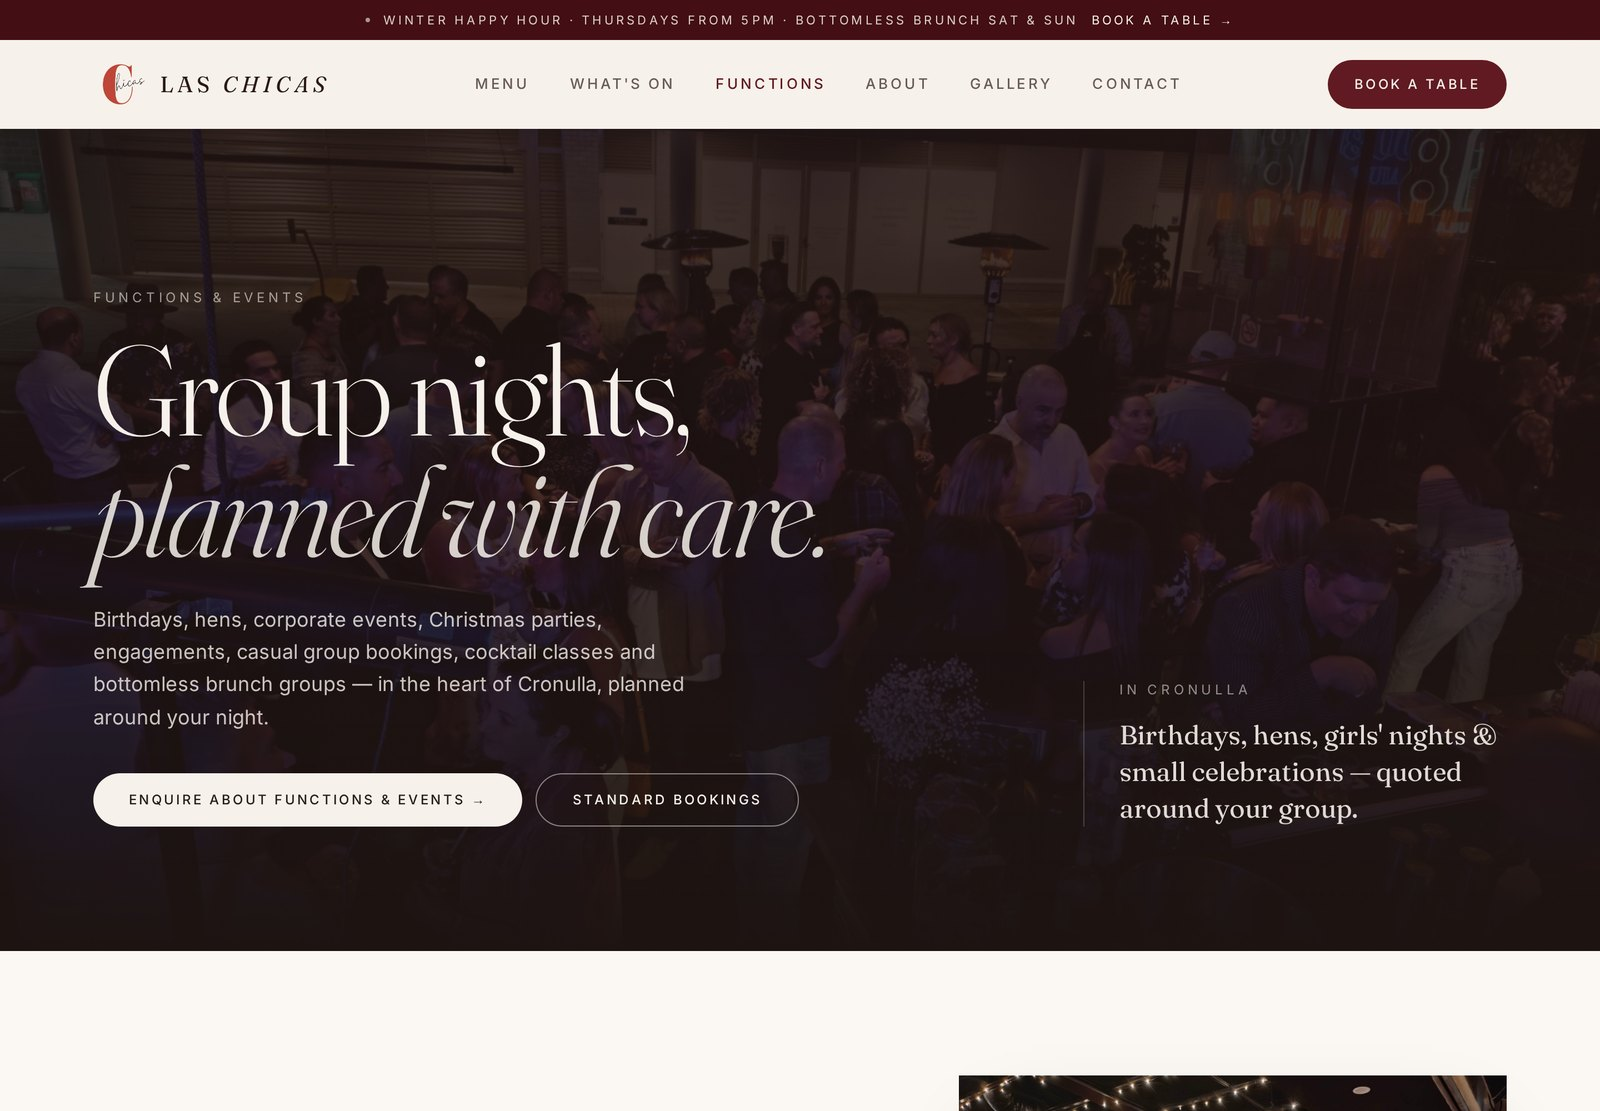
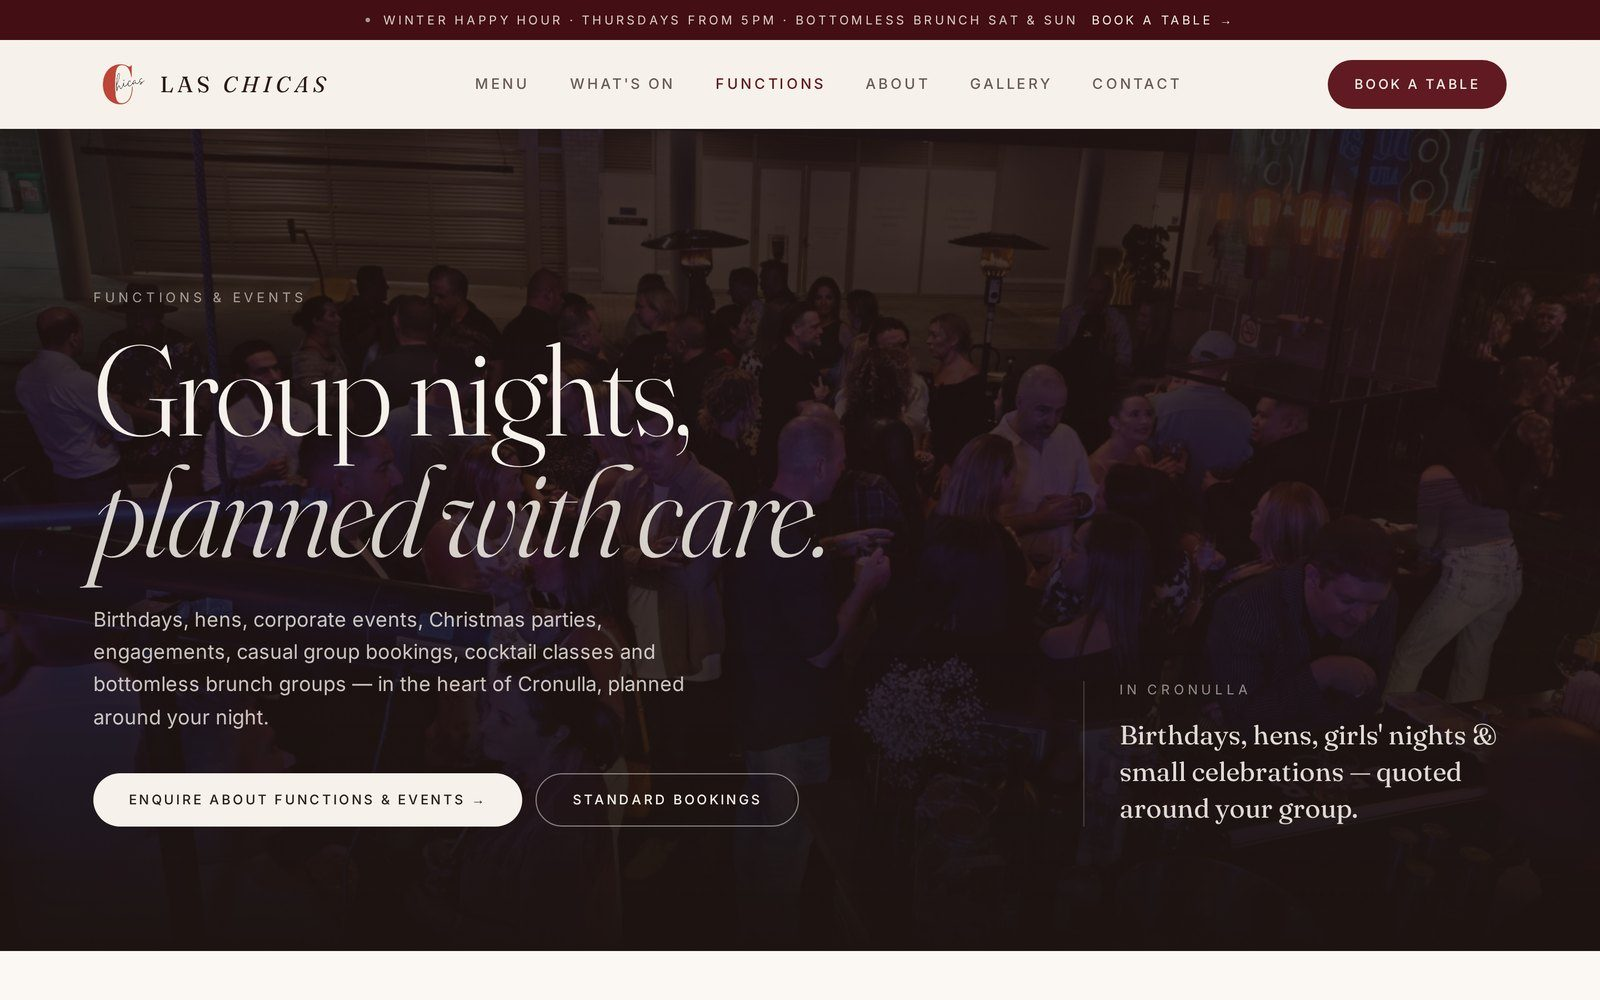
Changes

diff --git a/src/components/site/LasChicasCaseStudy.tsx b/src/components/site/LasChicasCaseStudy.tsx
@@ -119,12 +119,12 @@ const LasChicasCaseStudy = () => {
               sizes="(min-width: 1024px) 46vw, 100vw"
             />
           </div>
-          <div className="lg:col-span-4 lg:col-start-9 lg:pt-20">
+          <div className="lg:col-span-4 lg:col-start-9 lg:pt-24">
             <LasChicasFigure
               src={whatsOnShot}
               alt="Las Chicas What's On page: editorial heading “The week at Las Chicas.” beside a photograph of cocktails being made."
               caption="What's On — weekly events given a place of their own, pointed at the same booking routes."
-              ratioClass="aspect-[3/2] lg:aspect-[4/3]"
+              ratioClass="aspect-[2/1]"
               sizes="(min-width: 1024px) 32vw, 100vw"
             />
           </div>
